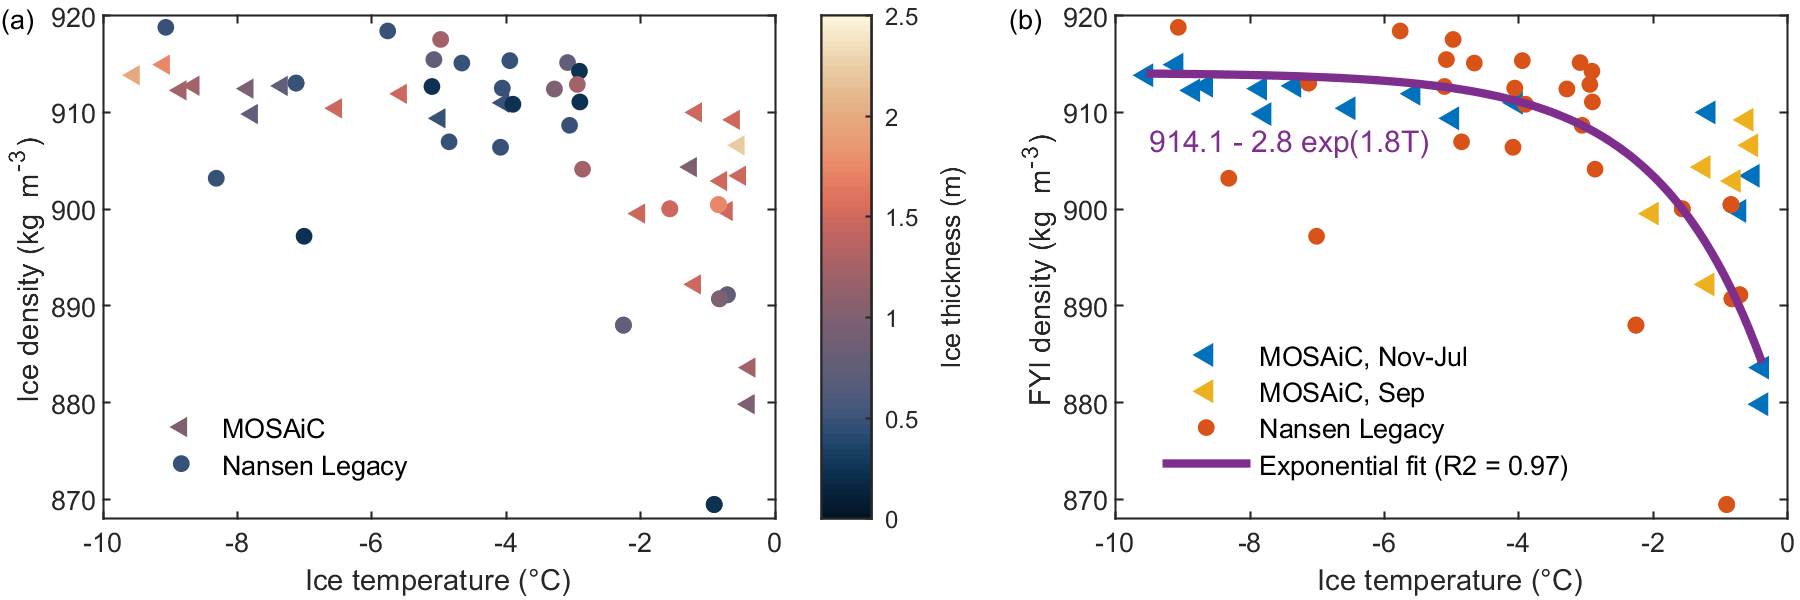
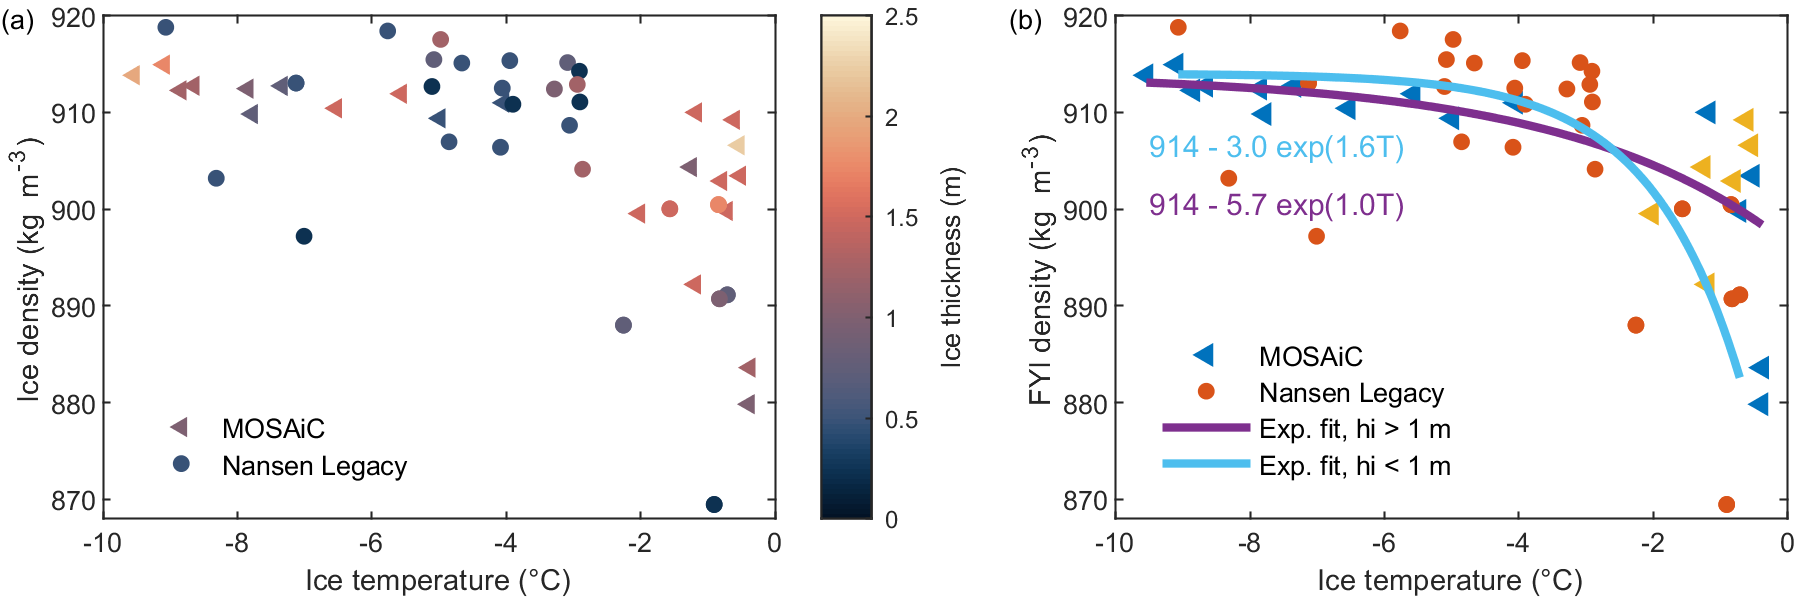
Add files via upload

Changed region(s): [[0.6222, 0.09, 0.9956, 0.63], [0.6222, 0.57, 0.8711, 0.81], [0.6222, 0.3, 0.7778, 0.36]]

diff --git a/nansen_legacy.m b/nansen_legacy.m
@@ -136,22 +136,39 @@ leg = legend([p1 p2],'MOSAiC','Nansen Legacy','box','off'); set(leg,'FontSize',8
 xlim([-10 0]); ylim([868 920]);
 
 % Density parametrization
-offset = 914.1;
-x = [T_fyi_mosaic([5:6 8:9 11:13 15:23]) T_bulk];
-y = [rho_fyi_mosaic([5:6 8:9 11:13 15:23]) rho_si_bulk]-offset;
+offset = 914;
+x = [T_fyi_mosaic([5:6 8:9 11:13 15:23]) T_leg5 T_bulk];
+y = [rho_fyi_mosaic([5:6 8:9 11:13 15:23]) rho_leg5 rho_si_bulk]-offset;
+z = [h_fyi_mosaic([5:6 8:9 11:13 15:23]) h_leg5 hrho];
 
-[xData,yData] = prepareCurveData(x,y);
+% [xData,yData] = prepareCurveData(x,y);
+% ft = fittype('exp1'); opts = fitoptions('Method','NonlinearLeastSquares'); opts.Display = 'Off'; opts.Normalize = 'on'; opts.Robust = 'LAR'; % Set up fittype and options.
+% [fitresult,gof] = fit(xData,yData,ft,opts);
+% Xfit=linspace(min(xData),max(xData),100); Yfit=fitresult(Xfit);
+
+x1 = x(z > 1.0); y1 = y(z > 1.0);
+[xData,yData] = prepareCurveData(x1,y1);
 ft = fittype('exp1'); opts = fitoptions('Method','NonlinearLeastSquares'); opts.Display = 'Off'; opts.Normalize = 'on'; opts.Robust = 'LAR'; % Set up fittype and options.
-[fitresult,gof] = fit(xData,yData,ft,opts);
-Xfit=linspace(min(xData),max(xData),100); Yfit=fitresult(Xfit);
+[fitresult,~] = fit(xData,yData,ft,opts);
+Xfit1=linspace(min(xData),max(xData),100); Yfit1=fitresult(Xfit);
+
+x2 = x(z < 1.0); y2 = y(z < 1.0);
+[xData,yData] = prepareCurveData(x2,y2);
+ft = fittype('exp1'); opts = fitoptions('Method','NonlinearLeastSquares'); opts.Display = 'Off'; opts.Normalize = 'on'; opts.Robust = 'LAR'; % Set up fittype and options.
+[fitresult,~] = fit(xData,yData,ft,opts);
+Xfit2=linspace(min(xData),max(xData),100); Yfit2=fitresult(Xfit);
 
 nexttile
 p = plot(T_fyi_mosaic([5:6 8:9 11:13 15:23]),rho_fyi_mosaic([5:6 8:9 11:13 15:23]),'<','Color',c{1},'LineWidth',2); p.MarkerSize = 2; set(p,'markerfacecolor',get(p,'color')); hold on
 p = plot(T_leg5,rho_leg5,'<','Color',c{3},'LineWidth',2); p.MarkerSize = 2; set(p,'markerfacecolor',get(p,'color')); % MOSAiC
 p = plot(T_bulk,rho_si_bulk,'o','Color',c{2},'LineWidth',2); p.MarkerSize = 2; set(p,'markerfacecolor',get(p,'color')); % Nansen Legacy
-plot(Xfit,Yfit+offset,'Color',c{4},'LineWidth',2); % exponential fit
-p = text(-9.5,907,'914.1 - 2.8 exp(1.8T)'); set(p,'Color',c{4},'HorizontalAlignment','left','FontSize',9);
-leg = legend('MOSAiC, Nov-Jul','MOSAiC, Sep','Nansen Legacy','Exponential fit (R2 = 0.97)','box','off','NumColumns',1); set(leg,'FontSize',8,'Location','southwest'); leg.ItemTokenSize = [30*0.7,18*0.7];
+% plot(Xfit,Yfit+offset,'Color',c{4},'LineWidth',2); % exponential fit, all
+plot(Xfit1,Yfit1+offset,'Color',c{4},'LineWidth',2); % exponential fit, thick ice
+plot(Xfit2,Yfit2+offset,'Color',c{6},'LineWidth',2); % exponential fit, thin ice
+% p = text(-9.5,907,'914.1 - 2.8 exp(1.8T)'); set(p,'Color',c{4},'HorizontalAlignment','left','FontSize',9);
+p = text(-9.5,900.5,'914 - 5.7 exp(1.0T)'); set(p,'Color',c{4},'HorizontalAlignment','left','FontSize',9);
+p = text(-9.5,906.5,'914 - 3.0 exp(1.6T)'); set(p,'Color',c{6},'HorizontalAlignment','left','FontSize',9);
+leg = legend('MOSAiC','','Nansen Legacy','Exp. fit, hi > 1 m','Exp. fit, hi < 1 m','box','off','NumColumns',1); set(leg,'FontSize',8,'Location','southwest'); leg.ItemTokenSize = [30*0.7,18*0.7];
 hXLabel = xlabel('Ice temperature (°C)'); hYLabel = ylabel('FYI density (kg  m^-^3)'); set([hXLabel hYLabel gca],'FontSize',8,'FontWeight','normal');
 xlim([-10 0]); ylim([868 920]);
 annotation('textbox',[0 .51 0.02 .51],'String','(a)','EdgeColor','none','HorizontalAlignment','center','FontSize',8);
